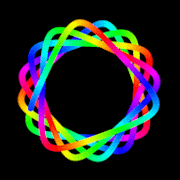
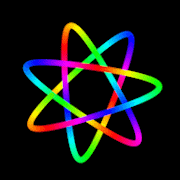
Bump service worker cache versions

diff --git a/service-worker.js b/service-worker.js
@@ -1,4 +1,4 @@
-const CACHE_NAME = 'gyrograf-v1.0.2';
+const CACHE_NAME = 'gyrograf-v1.0.3';
 
 const ASSETS = [
   './',